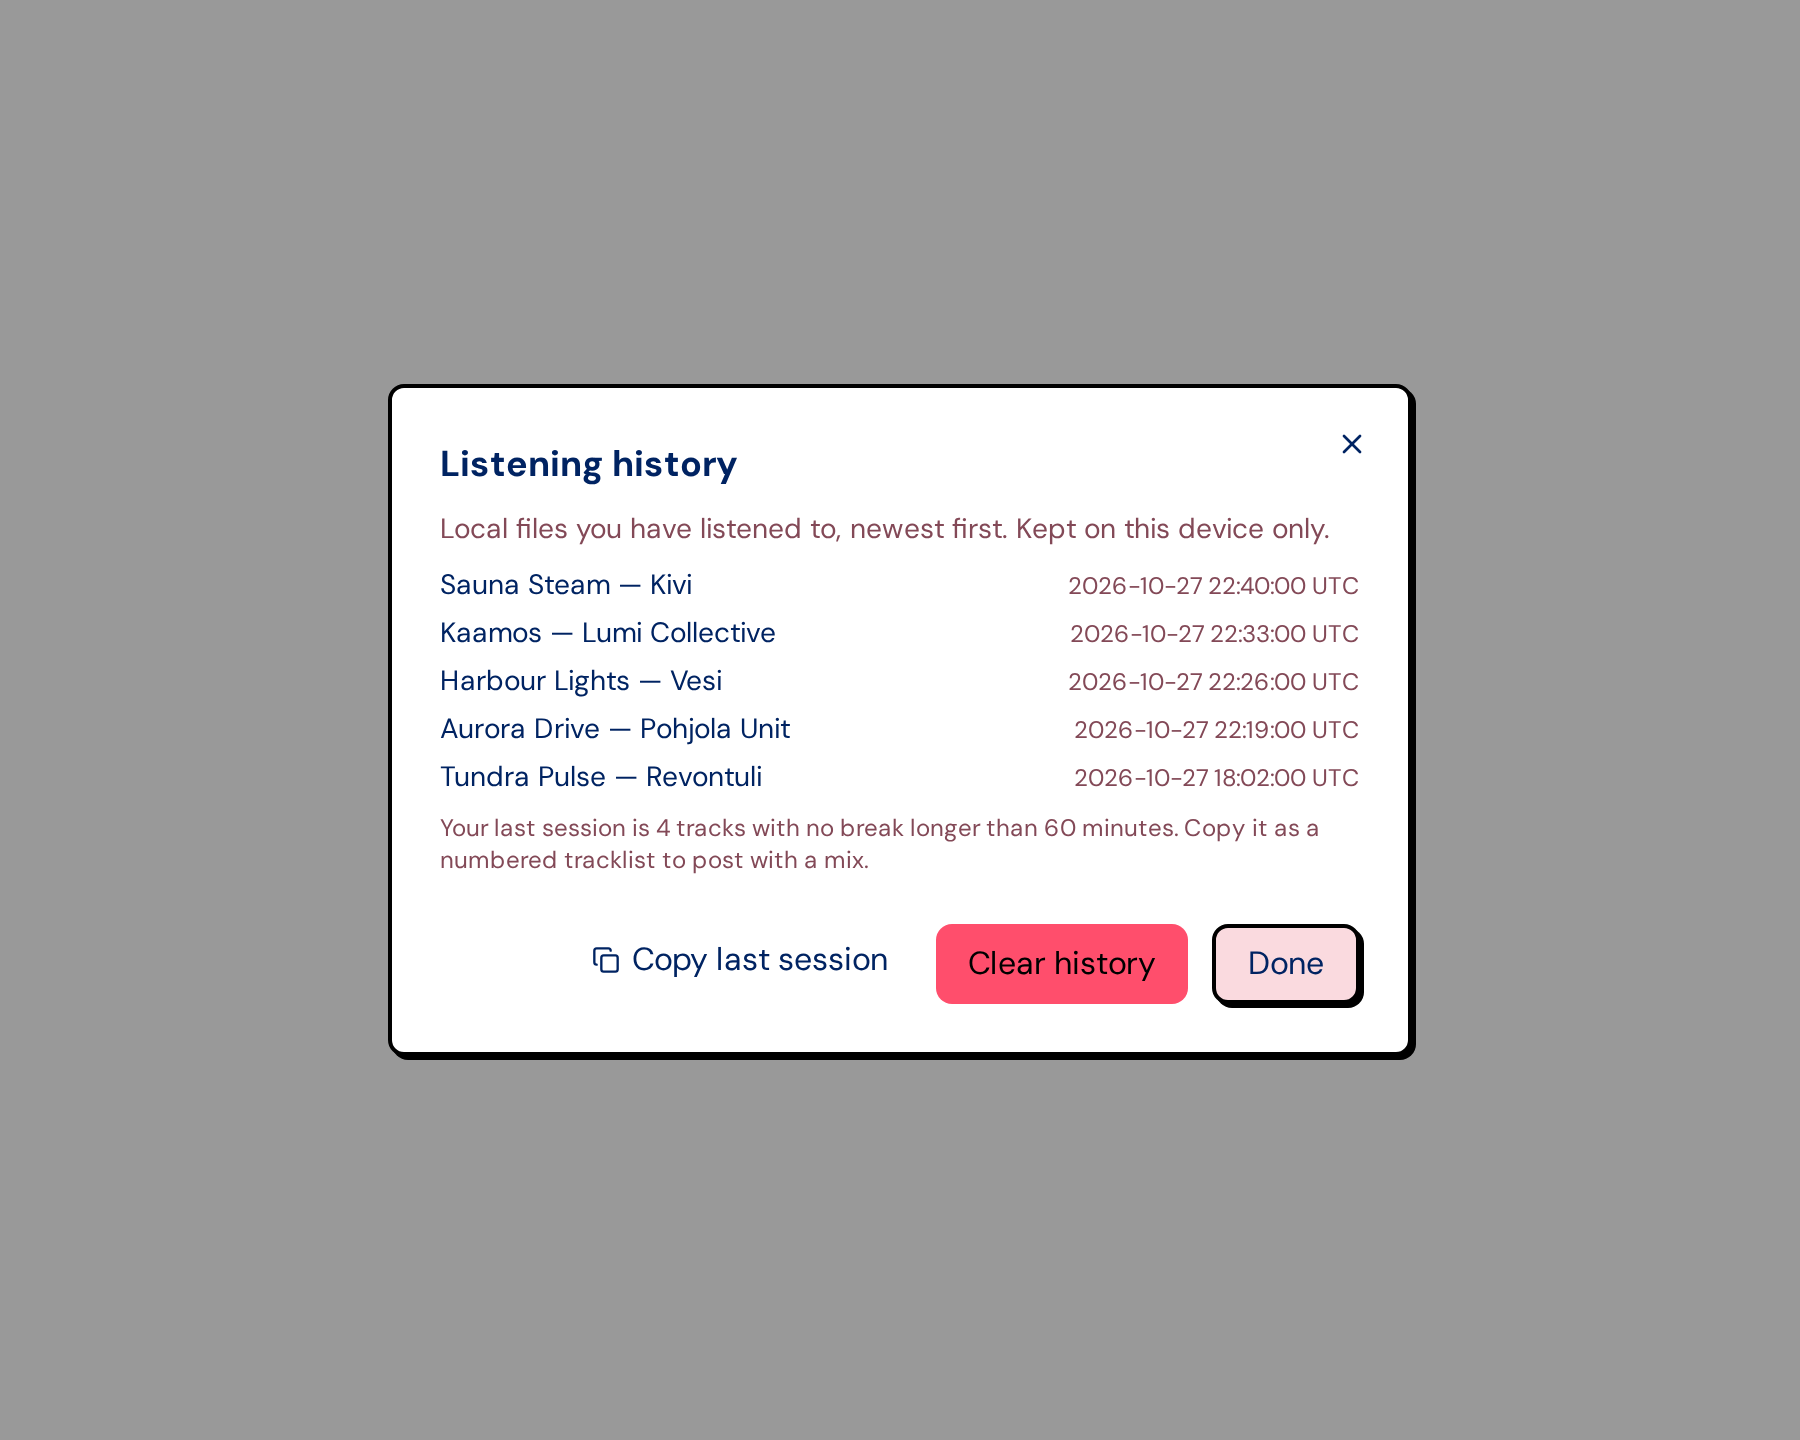
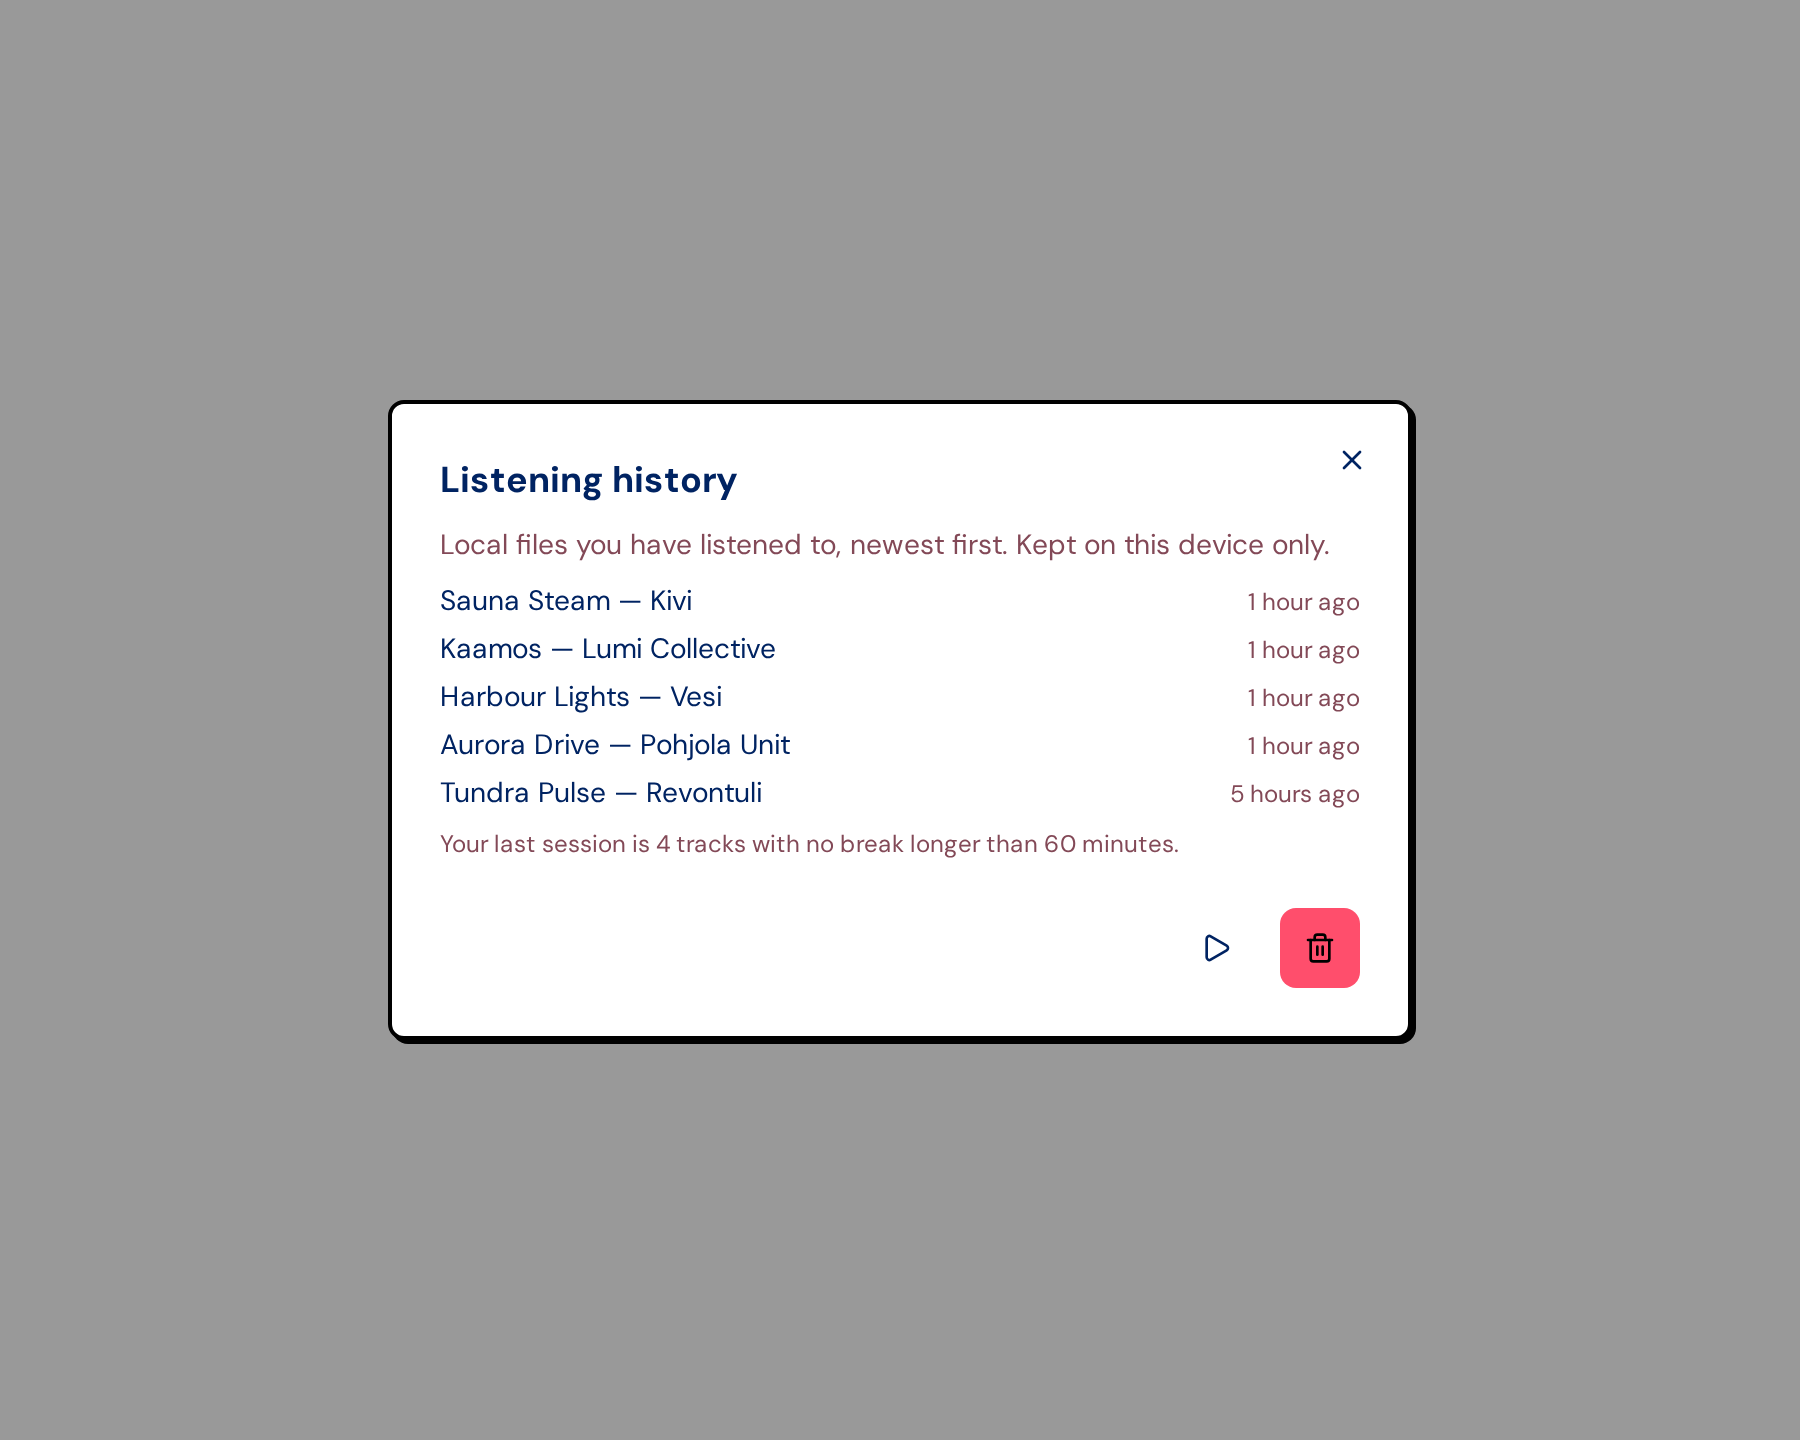
feat(web): resume the last listening session from history
The dialog showed raw timestamps and a tracklist copy, which is not how a DJ gets back into the set.

Changed region(s): [[0.2489, 0.3125, 0.7467, 0.625], [0.2178, 0.625, 0.8089, 0.75], [0.2178, 0.25, 0.7778, 0.2812]]

diff --git a/packages/tahti-web/src/components/PlayHistoryDialog.tsx b/packages/tahti-web/src/components/PlayHistoryDialog.tsx
@@ -1,23 +1,21 @@
+import { PlayIcon, Trash2Icon } from 'lucide-react';
 import { useCallback, useEffect, useMemo, useState } from 'react';
 import { toast } from 'sonner';
 
-import {
-  Button,
-  CopyButton,
-  Dialog,
-  InlineError,
-  Loader,
-} from '@tahti-player/ui';
+import { Button, Dialog, InlineError, Loader, Tooltip } from '@tahti-player/ui';
 
+import { humanizePastDate } from '../lib/humanizeDate';
 import type {
   NativePlayLogEntry,
   TahtiNativeLibrary,
 } from '../lib/nativeLibrary';
+import { preparePlayables } from '../lib/nativePlayback';
 import {
-  formatTracklist,
   latestSession,
+  playedAtDate,
   SET_GAP_MINUTES,
 } from '../lib/setTracklist';
+import { usePlayerStore } from '../stores/playerStore';
 import { ConfirmDialog } from './ConfirmDialog';
 import { PageEmpty, PageError } from './PageStates';
 
@@ -40,7 +38,15 @@ export function PlayHistoryDialog({
   const [loading, setLoading] = useState(false);
   const [error, setError] = useState<string | null>(null);
   const [confirmClear, setConfirmClear] = useState(false);
+  const play = usePlayerStore((state) => state.play);
   const session = useMemo(() => latestSession(entries), [entries]);
+  const sessionIds = useMemo(
+    () =>
+      session
+        .map((entry) => entry.trackId)
+        .filter((id): id is string => Boolean(id)),
+    [session],
+  );
 
   const load = useCallback(
     async (offset: number) => {
@@ -71,6 +77,24 @@ export function PlayHistoryDialog({
       void load(0);
     }
   }, [isOpen, load]);
+
+  const resume = async () => {
+    try {
+      const playables = await preparePlayables(library, sessionIds, 'session');
+      const [head, ...rest] = playables;
+      if (!head) {
+        toast.error('None of these tracks can be played.');
+        return;
+      }
+      play(head, { enqueueRest: rest });
+    } catch (failure) {
+      toast.error(
+        failure instanceof Error
+          ? failure.message
+          : 'Could not play this session.',
+      );
+    }
+  };
 
   const clear = async () => {
     try {
@@ -116,7 +140,10 @@ export function PlayHistoryDialog({
                     {entry.artist ? ` — ${entry.artist}` : ''}
                   </span>
                   <span className="text-foreground-secondary shrink-0 text-xs">
-                    {entry.playedAt} UTC
+                    {humanizePastDate(
+                      playedAtDate(entry.playedAt)?.toISOString() ??
+                        entry.playedAt,
+                    )}
                   </span>
                 </li>
               ))}
@@ -142,28 +169,33 @@ export function PlayHistoryDialog({
           <p className="text-foreground-secondary text-xs">
             Your last session is {session.length}{' '}
             {session.length === 1 ? 'track' : 'tracks'} with no break longer
-            than {SET_GAP_MINUTES} minutes. Copy it as a numbered tracklist to
-            post with a mix.
+            than {SET_GAP_MINUTES} minutes.
           </p>
         ) : null}
         <Dialog.Actions>
-          {session.length > 0 ? (
-            <CopyButton
-              text={formatTracklist(session)}
-              label="Copy last session"
+          <Tooltip content="Resume" side="top">
+            <Button
+              size="icon"
               variant="text"
-              toastMessage="Tracklist copied."
-            />
-          ) : null}
-          <Button
-            variant="text"
-            intent="danger"
-            disabled={total === 0}
-            onClick={() => setConfirmClear(true)}
-          >
-            Clear history
-          </Button>
-          <Dialog.Close>Done</Dialog.Close>
+              aria-label="Resume"
+              disabled={sessionIds.length === 0}
+              onClick={() => void resume()}
+            >
+              <PlayIcon size={16} aria-hidden />
+            </Button>
+          </Tooltip>
+          <Tooltip content="Clear history" side="top">
+            <Button
+              size="icon"
+              variant="text"
+              intent="danger"
+              aria-label="Clear history"
+              disabled={total === 0}
+              onClick={() => setConfirmClear(true)}
+            >
+              <Trash2Icon size={16} aria-hidden />
+            </Button>
+          </Tooltip>
         </Dialog.Actions>
       </Dialog.Root>
       <ConfirmDialog

diff --git a/packages/tahti-web/src/components/PlayHistoryDialog.test.tsx b/packages/tahti-web/src/components/PlayHistoryDialog.test.tsx
@@ -6,12 +6,23 @@ import {
   render,
   screen,
 } from '@testing-library/react';
+import { toast } from 'sonner';
 import { afterEach, describe, expect, it, vi } from 'vitest';
 
+import { humanizePastDate } from '../lib/humanizeDate';
 import type { TahtiNativeLibrary } from '../lib/nativeLibrary';
+import { playedAtDate } from '../lib/setTracklist';
 import { PlayHistoryDialog } from './PlayHistoryDialog';
 
-vi.mock('sonner', () => ({ toast: { error: vi.fn(), success: vi.fn() } }));
+const play = vi.hoisted(() => vi.fn());
+
+vi.mock('sonner', () => ({
+  toast: { error: vi.fn(), success: vi.fn(), info: vi.fn() },
+}));
+vi.mock('../stores/playerStore', () => ({
+  usePlayerStore: (selector: (state: { play: typeof play }) => unknown) =>
+    selector({ play }),
+}));
 
 describe('PlayHistoryDialog', () => {
   afterEach(cleanup);
@@ -41,5 +52,113 @@ describe('PlayHistoryDialog', () => {
       fireEvent.click(screen.getByRole('button', { name: 'Retry' }));
     });
     expect(screen.getByText(/Nothing yet/)).toBeTruthy();
+    expect(screen.getByRole('button', { name: 'Resume' })).toBeDisabled();
+    expect(
+      screen.getByRole('button', { name: 'Clear history' }),
+    ).toBeDisabled();
+  });
+
+  it('shows a humanized date and resumes the session in play order', async () => {
+    const prepareBatch = vi.fn(async (ids: string[]) => ({
+      unavailable: 0,
+      items: ids.map((id) => ({
+        track: { id, title: id, artist: 'A', duration: 10 },
+        streamUrl: `https://example.test/${id}`,
+      })),
+    }));
+    const library = {
+      catalog: {
+        playHistory: vi.fn(async () => ({
+          total: 3,
+          entries: [
+            {
+              id: 3,
+              trackId: 'c',
+              title: 'Later',
+              artist: 'C',
+              playedAt: '2026-10-27 22:30:00',
+            },
+            {
+              id: 2,
+              trackId: null,
+              title: 'Gone',
+              artist: '',
+              playedAt: '2026-10-27 22:20:00',
+            },
+            {
+              id: 1,
+              trackId: 'a',
+              title: 'Earlier',
+              artist: 'A',
+              playedAt: '2026-10-27 22:10:00',
+            },
+          ],
+        })),
+      },
+      prepareBatch,
+    } as unknown as TahtiNativeLibrary;
+    await act(async () => {
+      render(
+        <PlayHistoryDialog
+          isOpen
+          onClose={() => {}}
+          library={library}
+          onChanged={() => {}}
+        />,
+      );
+    });
+    const when = humanizePastDate(
+      playedAtDate('2026-10-27 22:30:00')!.toISOString(),
+    );
+    const row = screen.getByText(/Later/).closest('li');
+    expect(row?.textContent).toContain(when);
+    expect(screen.queryByText(/UTC/)).toBeNull();
+    await act(async () => {
+      fireEvent.click(screen.getByRole('button', { name: 'Resume' }));
+    });
+    expect(prepareBatch).toHaveBeenCalledWith(['a', 'c']);
+    expect(play).toHaveBeenCalledTimes(1);
+    const [head, options] = play.mock.calls[0]!;
+    expect(head.id).toBe('local:a');
+    expect(options.enqueueRest.map((item: { id: string }) => item.id)).toEqual([
+      'local:c',
+    ]);
+  });
+
+  it('says so when the session files are gone', async () => {
+    const library = {
+      catalog: {
+        playHistory: vi.fn(async () => ({
+          total: 1,
+          entries: [
+            {
+              id: 1,
+              trackId: 'missing',
+              title: 'Missing',
+              artist: '',
+              playedAt: '2026-10-27 22:30:00',
+            },
+          ],
+        })),
+      },
+      prepareBatch: vi.fn(async () => ({ items: [], unavailable: 1 })),
+    } as unknown as TahtiNativeLibrary;
+    await act(async () => {
+      render(
+        <PlayHistoryDialog
+          isOpen
+          onClose={() => {}}
+          library={library}
+          onChanged={() => {}}
+        />,
+      );
+    });
+    await act(async () => {
+      fireEvent.click(screen.getByRole('button', { name: 'Resume' }));
+    });
+    expect(toast.error).toHaveBeenCalledWith(
+      'None of these tracks can be played.',
+    );
+    expect(play).not.toHaveBeenCalled();
   });
 });

diff --git a/packages/storybook/src/tahti-web/PlayHistoryDialog.stories.tsx b/packages/storybook/src/tahti-web/PlayHistoryDialog.stories.tsx
@@ -1,8 +1,10 @@
 import type { Meta, StoryObj } from '@storybook/react-vite';
 import { PlayHistoryDialog } from '@tahti-web/components/PlayHistoryDialog';
+import { humanizePastDate } from '@tahti-web/lib/humanizeDate';
+import { playedAtDate } from '@tahti-web/lib/setTracklist';
 import { expect, fn, within } from 'storybook/test';
 
-import { djLibrary } from './_fixtures/dj-library';
+import { DJ_PLAY_HISTORY, djLibrary } from './_fixtures/dj-library';
 
 const meta: Meta<typeof PlayHistoryDialog> = {
   title: 'Tahti/Desktop/PlayHistoryDialog',
@@ -22,10 +24,23 @@ type Story = StoryObj<typeof meta>;
 export const LastSession: Story = {
   play: async ({ canvasElement }) => {
     const body = within(canvasElement.ownerDocument.body);
+    const resume = await body.findByRole('button', { name: 'Resume' });
+    await expect(resume).toBeEnabled();
     await expect(
-      await body.findByRole('button', { name: /Copy last session/ }),
+      body.getByRole('button', { name: 'Clear history' }),
+    ).toBeEnabled();
+    await expect(
+      body.queryByRole('button', { name: /Copy last session/ }),
+    ).toBeNull();
+    await expect(body.queryByRole('button', { name: 'Done' })).toBeNull();
+    const newest = DJ_PLAY_HISTORY[0]!;
+    const row = body.getByText(/Sauna Steam/).closest('li')!;
+    await expect(
+      within(row).getByText(
+        humanizePastDate(playedAtDate(newest.playedAt)!.toISOString()),
+      ),
     ).toBeVisible();
-    await expect(body.getByText(/Your last session is 4 tracks/)).toBeVisible();
+    await expect(body.queryByText(`${newest.playedAt} UTC`)).toBeNull();
   },
 };
 
@@ -34,8 +49,9 @@ export const Empty: Story = {
   play: async ({ canvasElement }) => {
     const body = within(canvasElement.ownerDocument.body);
     await expect(await body.findByText(/Nothing yet/)).toBeVisible();
+    await expect(body.getByRole('button', { name: 'Resume' })).toBeDisabled();
     await expect(
-      body.queryByRole('button', { name: /Copy last session/ }),
-    ).toBeNull();
+      body.getByRole('button', { name: 'Clear history' }),
+    ).toBeDisabled();
   },
 };

diff --git a/packages/docs/user-manual/desktop/mixing.md b/packages/docs/user-manual/desktop/mixing.md
@@ -84,17 +84,8 @@ The first time, the app creates **Prepare**. Tracks already on that playlist are
 
 The keyboard list (the keyboard icon above the table) includes **P**. See [Keyboard shortcuts](../reference/keyboard-shortcuts.md).
 
-## Copy the last session
+## Resume the last session
 
-**Library tools → History** lists local listens on this computer, newest first. A listen counts after 30 seconds of a local track. This list is separate from [Listening history](../listening/history.md), which is the plays kept for your account.
+**Library tools → History** lists local listens on this computer, newest first. Each row shows when you played it in ordinary language (a few minutes ago, yesterday, or a short date). A listen counts after 30 seconds of a local track. This list is separate from [Listening history](../listening/history.md), which is the plays kept for your account.
 
-<figure><img src="../../.gitbook/assets/desktop-copy-last-session.png" alt="Listening history dialog with Copy last session. The note says the last session is 4 tracks with no break longer than 60 minutes"><figcaption><p>Copy last session from local listening history</p></figcaption></figure>
-
-**Copy last session** copies the newest run of those listens as a numbered tracklist, oldest first. A gap longer than 60 minutes ends the session, so an earlier listen stays in the full list and stays out of the copy. Times in the copy are your local time:
-
-```
-01. 22:19 Pohjola Unit – Aurora Drive
-02. 22:26 Vesi – Harbour Lights
-```
-
-The confirmation says **Tracklist copied.**
+The play icon is **Resume**. It plays the newest run of those listens, oldest first. A gap longer than 60 minutes ends the session, so an earlier listen stays in the full list and is not part of Resume. A track whose file is gone is skipped. If none of the session can be played, the app says so. The trash icon is **Clear history**, and it asks before deleting the list.

diff --git a/README.md b/README.md
@@ -194,9 +194,9 @@ From `@tahti-player/tahti-web` (mock data for stable docs captures; beta uses th
 
 *Prepare — P, or Add to Prepare, files tracks on a playlist named Prepare.*
 
-<picture><source media="(prefers-color-scheme: light)" srcset="./packages/tahti-web/docs/redesign-shots/desktop-copy-last-session-v1--light.png" /><img src="./packages/tahti-web/docs/redesign-shots/desktop-copy-last-session-v1.png" alt="Listening history dialog with Copy last session" /></picture>
+<picture><source media="(prefers-color-scheme: light)" srcset="./packages/tahti-web/docs/redesign-shots/desktop-copy-last-session-v1--light.png" /><img src="./packages/tahti-web/docs/redesign-shots/desktop-copy-last-session-v1.png" alt="Listening history of local files, newest first" /></picture>
 
-*Copy last session — the newest local listens with no gap over 60 minutes, as a numbered tracklist.*
+*Listening history — when you played each file, and Resume for the latest session.*
 
 The same pictures are in the user manual: [Mixing your local library](./packages/docs/user-manual/desktop/mixing.md).
 

diff --git a/packages/docs/user-manual/listening/history.md b/packages/docs/user-manual/listening/history.md
@@ -12,4 +12,4 @@ This list is kept for your account in this browser (or the desktop app). Plays y
 
 Signed in, **Stats** also starts with **Across your devices**: your listening on every browser and app where you're signed in, from Tahti's listening records. Artists only ever see anonymous totals, never who listened.
 
-The desktop app keeps a separate list of the files you played from this computer, under **Library → Local files → History**. **Copy last session** there turns the newest run of those listens, with no gap longer than 60 minutes, into a numbered tracklist. See [Mixing your local library](../desktop/mixing.md).
+The desktop app keeps a separate list of the files you played from this computer, under **Library → Local files → History**. **Resume** there plays the newest run of those listens, with no gap longer than 60 minutes. See [Mixing your local library](../desktop/mixing.md).
